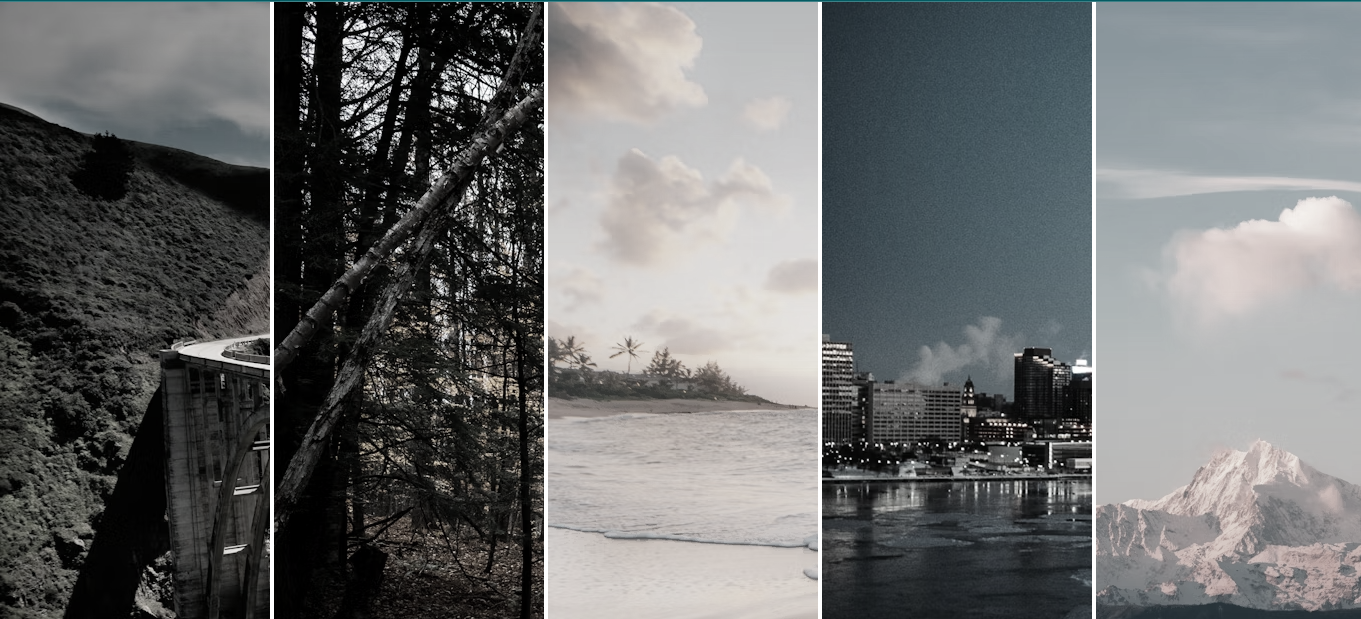
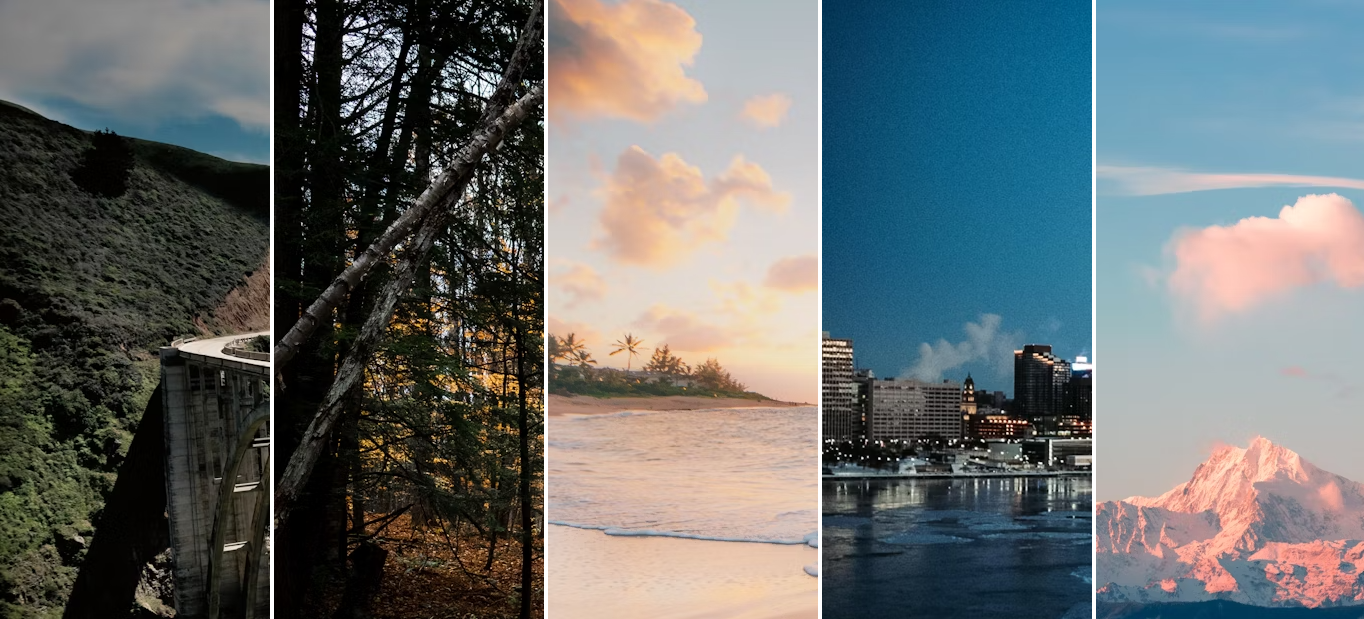
Add expanding-cards project
- Change the project card image in the homepage.
- Add a script.ts file that will be compiled to a script.js file.

diff --git a/projects/expanding-cards/script.js b/projects/expanding-cards/script.js
@@ -1,22 +1,20 @@
+"use strict";
 const images = document.querySelectorAll('.image');
-
-/* Add .active class to image with click event. */
-images.forEach(image => {
-  image.addEventListener("click", () => {
-    removeActiveClasses();
-    image.classList.add("active");
-  });
+/* Add .active class to image with a click event. */
+images.forEach((image) => {
+    image.addEventListener("click", () => {
+        removeActiveClasses();
+        image.classList.add("active");
+    });
 });
-
 const removeActiveClasses = () => {
-  images.forEach(image => {
-    image.classList.remove("active");
-  });
+    images.forEach((image) => {
+        image.classList.remove("active");
+    });
 };
-
-/* Remove .active class to image woth a dobleclick event. */
-images.forEach(image => {
-  image.addEventListener("dblclick", () => {
-    image.classList.remove("active");
-  });
+/* Remove .active class to image with a dobleclick event. */
+images.forEach((image) => {
+    image.addEventListener("dblclick", () => {
+        image.classList.remove("active");
+    });
 });

diff --git a/projects/expanding-cards/script.ts b/projects/expanding-cards/script.ts
@@ -1,0 +1,22 @@
+const images = document.querySelectorAll('.image') as NodeListOf<HTMLElement>;
+
+/* Add .active class to image with a click event. */
+images.forEach((image: HTMLElement): void => {
+  image.addEventListener("click", (): void => {
+    removeActiveClasses();
+    image.classList.add("active");
+  });
+});
+
+const removeActiveClasses = (): void => {
+  images.forEach((image: HTMLElement): void => {
+    image.classList.remove("active");
+  });
+};
+
+/* Remove .active class to image with a dobleclick event. */
+images.forEach((image: HTMLElement): void => {
+  image.addEventListener("dblclick", (): void => {
+    image.classList.remove("active");
+  });
+});
